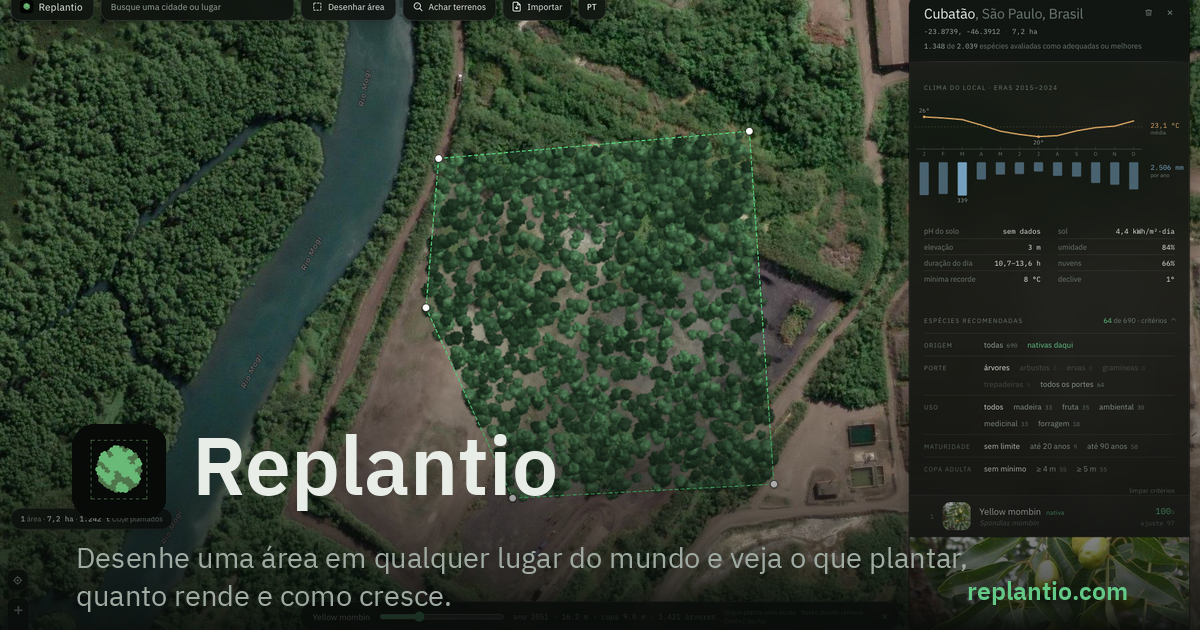
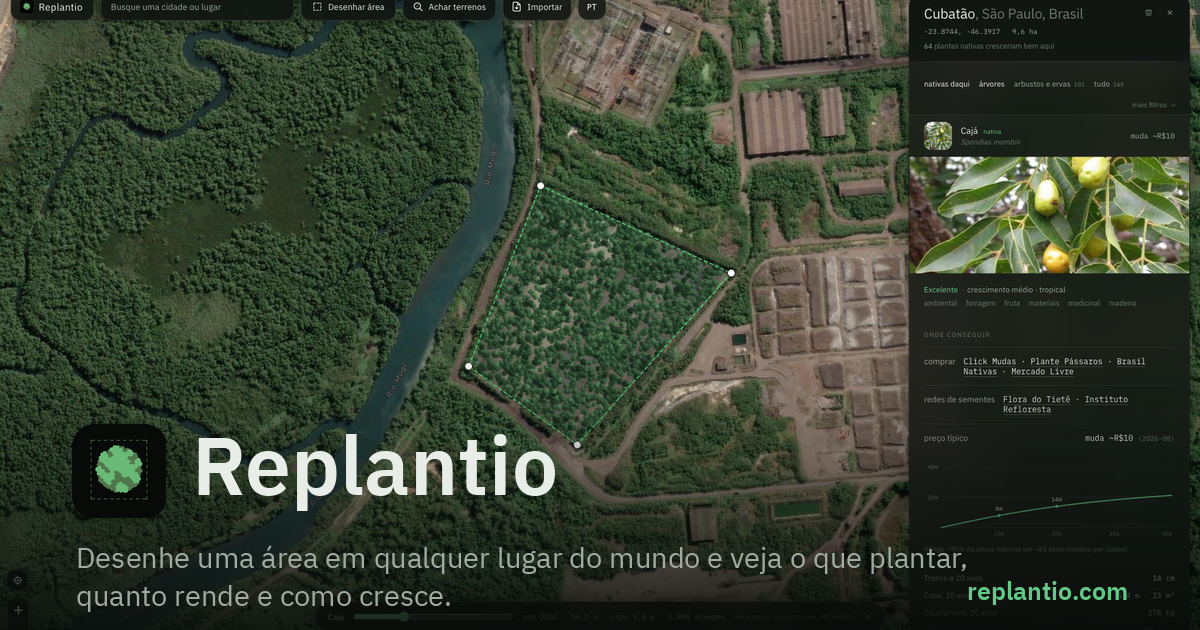
Demo and OG on the user-traced brownfield polygon; vertex-tracing helper page

diff --git a/design/trace.html b/design/trace.html
@@ -1,0 +1,51 @@
+<!doctype html>
+<html><head><meta charset="utf-8"><title>Traçar área</title>
+<link rel="stylesheet" href="https://unpkg.com/leaflet@1.9.4/dist/leaflet.css">
+<style>
+  html,body{margin:0;height:100%;font-family:system-ui}
+  #map{position:fixed;inset:0 0 74px 0}
+  #bar{position:fixed;left:0;right:0;bottom:0;height:74px;background:#111;color:#eee;
+    display:flex;gap:10px;align-items:center;padding:0 14px;box-sizing:border-box}
+  #out{flex:1;height:44px;background:#1c1c1c;color:#9fe0b2;border:1px solid #333;border-radius:8px;
+    font:12px ui-monospace,monospace;padding:6px 8px;resize:none}
+  button{font:600 13px system-ui;background:#63c987;border:0;border-radius:8px;padding:10px 16px;cursor:pointer}
+  #hint{position:fixed;top:10px;left:50%;transform:translateX(-50%);background:rgba(0,0,0,.75);color:#fff;
+    padding:8px 14px;border-radius:99px;font-size:12.5px;z-index:1000}
+</style></head><body>
+<div id="map"></div>
+<div id="hint">arraste os pontos · clique no mapa adiciona · clique direito num ponto remove</div>
+<div id="bar"><textarea id="out" readonly></textarea><button id="copy">Copiar</button></div>
+<script src="https://unpkg.com/leaflet@1.9.4/dist/leaflet.js"></script>
+<script>
+const map = L.map("map").setView([-23.8747, -46.3915], 17);
+L.tileLayer("https://server.arcgisonline.com/ArcGIS/rest/services/World_Imagery/MapServer/tile/{z}/{y}/{x}", { maxZoom: 19 }).addTo(map);
+map.doubleClickZoom.disable();
+
+let pts = [
+  [-23.87317, -46.39312], [-23.87304, -46.39097], [-23.87359, -46.3899],
+  [-23.8741, -46.38938], [-23.87516, -46.38949], [-23.87615, -46.39172],
+  [-23.87641, -46.39207], [-23.87575, -46.39299], [-23.87516, -46.39351],
+];
+let poly = null, marks = [];
+const out = document.getElementById("out");
+
+function render() {
+  if (poly) poly.remove();
+  marks.forEach(m => m.remove());
+  poly = L.polygon(pts, { color: "#63f0a0", weight: 2, dashArray: "6 5", fillOpacity: .08 }).addTo(map);
+  marks = pts.map((p, i) => {
+    const mk = L.marker(p, { draggable: true, icon: L.divIcon({ className: "", iconSize: [16, 16],
+      html: '<div style="width:16px;height:16px;border-radius:50%;background:#fff;border:2.5px solid #2c8f57"></div>' }) }).addTo(map);
+    mk.on("drag", e => { pts[i] = [e.latlng.lat, e.latlng.lng]; poly.setLatLngs(pts); sync(); });
+    mk.on("contextmenu", () => { if (pts.length > 3) { pts.splice(i, 1); render(); } });
+    return mk;
+  });
+  sync();
+}
+function sync() {
+  out.value = pts.map(([a, b]) => `${a.toFixed(5)},${b.toFixed(5)}`).join(";");
+}
+map.on("click", e => { pts.push([e.latlng.lat, e.latlng.lng]); render(); });
+document.getElementById("copy").onclick = () => { out.select(); document.execCommand("copy"); };
+render();
+</script></body></html>
